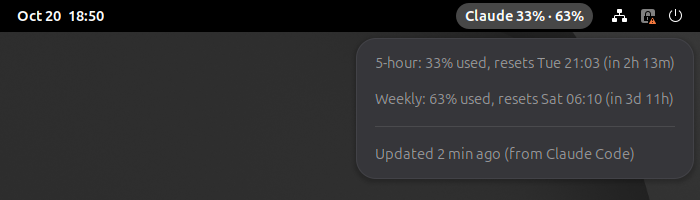
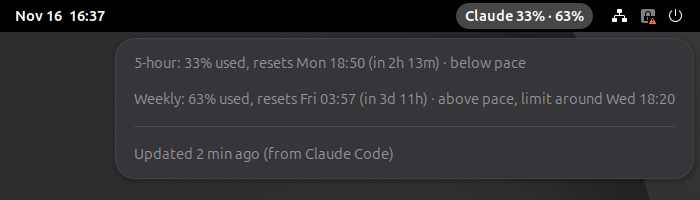
feat: limit colors, weekly breakdown and pace (#15)
- Color the label and menu rows yellow or red near a limit: at 80% and
  95% used, or when the usage report's severity is anything but normal.
  Bold the limit the report marks as active. Separate stylesheets for
  the light and dark shell styles, since the dark-style yellow can't be
  read on a light menu.
- "Weekly by surface" submenu from the report's seven_day_breakdown.
- Pace on each row: % used against % of the window gone, with when the
  limit would be hit at the current rate. Nothing in the first 10% of a
  window, where the rate is noise.

The usage report is now read once per refresh (readReport) and shared
by the Fable, resets, severity and breakdown rows.

Closes #5, closes #6, closes #12

diff --git a/claude-usage@bardswork/extension.js b/claude-usage@bardswork/extension.js
@@ -8,12 +8,28 @@ import * as PopupMenu from 'resource:///org/gnome/shell/ui/popupMenu.js';
 import {Extension} from 'resource:///org/gnome/shell/extensions/extension.js';
 
 import {
-    DEFAULT_FILE, USAGE_REPORT_FILE, readFable, readResets, readUsage, resetText, resetsText, windowText,
+    DEFAULT_FILE, USAGE_REPORT_FILE, WINDOW_SECONDS, breakdown, fableWindow, limitLevel, limitStates, paceText,
+    readReport, readUsage, resetGrants, resetText, resetsText, windowText, worstLevel,
 } from './usage.js';
 
 const REFRESH_SECONDS = 30;
 // Older than this, the numbers may be out of date (no Claude Code session running)
 const STALE_SECONDS = 15 * 60;
+const LEVEL_CLASSES = ['claude-usage-warning', 'claude-usage-critical'];
+
+/** Colors an actor for a level from limitLevel(), and bolds it when it's the active limit. */
+function setLevel(actor, level, active = false) {
+    for (const c of LEVEL_CLASSES) actor.remove_style_class_name(c);
+    if (level !== 'normal') actor.add_style_class_name(`claude-usage-${level}`);
+    if (active) actor.add_style_class_name('claude-usage-active');
+    else actor.remove_style_class_name('claude-usage-active');
+}
+
+/** A menu row's text: the percentage, the reset time and, when there is one, the pace. */
+function rowText(name, win, length, now) {
+    const pace = paceText(win, length, now);
+    return `${name}: ${windowText(win, now)} used, resets ${resetText(win, now)}${pace ? ` · ${pace}` : ''}`;
+}
 
 export default class ClaudeUsageExtension extends Extension {
     enable() {
@@ -23,6 +39,9 @@ export default class ClaudeUsageExtension extends Extension {
 
         this._fiveItem = new PopupMenu.PopupMenuItem('', {reactive: false});
         this._weekItem = new PopupMenu.PopupMenuItem('', {reactive: false});
+        // Only shown when the saved usage report has this week's split by surface
+        this._breakdownItem = new PopupMenu.PopupSubMenuMenuItem('Weekly by surface');
+        this._breakdownItem.visible = false;
         // Only shown when the status line hook has saved a usage report with a Fable window
         this._fableItem = new PopupMenu.PopupMenuItem('', {reactive: false});
         this._fableItem.visible = false;
@@ -32,6 +51,7 @@ export default class ClaudeUsageExtension extends Extension {
         this._ageItem = new PopupMenu.PopupMenuItem('', {reactive: false});
         this._button.menu.addMenuItem(this._fiveItem);
         this._button.menu.addMenuItem(this._weekItem);
+        this._button.menu.addMenuItem(this._breakdownItem);
         this._button.menu.addMenuItem(this._fableItem);
         this._button.menu.addMenuItem(this._resetsItem);
         this._button.menu.addMenuItem(new PopupMenu.PopupSeparatorMenuItem());
@@ -59,6 +79,8 @@ export default class ClaudeUsageExtension extends Extension {
             this._label.text = 'Claude –';
             this._fiveItem.label.text = '';
             this._weekItem.label.text = '';
+            setLevel(this._label, 'normal');
+            this._breakdownItem.visible = false;
             this._fableItem.visible = false;
             this._resetsItem.visible = false;
             this._ageItem.label.text = 'No data yet: start Claude Code';
@@ -68,15 +90,33 @@ export default class ClaudeUsageExtension extends Extension {
         const {five_hour: five, seven_day: week} = usage.limits;
         const age = now - usage.updated;
 
+        const report = readReport(USAGE_REPORT_FILE);
+        const states = limitStates(report);
+        const fable = fableWindow(report);
+        const fiveLevel = limitLevel(five, states.five_hour?.severity, now);
+        const weekLevel = limitLevel(week, states.seven_day?.severity, now);
+
         this._label.text = `Claude ${windowText(five, now)} · ${windowText(week, now)}`;
         this._label.opacity = age > STALE_SECONDS ? 140 : 255;
+        setLevel(this._label, worstLevel(fiveLevel, weekLevel));
 
-        this._fiveItem.label.text = `5-hour: ${windowText(five, now)} used, resets ${resetText(five, now)}`;
-        this._weekItem.label.text = `Weekly: ${windowText(week, now)} used, resets ${resetText(week, now)}`;
-        const fable = readFable(USAGE_REPORT_FILE);
+        this._fiveItem.label.text = rowText('5-hour', five, WINDOW_SECONDS.five_hour, now);
+        setLevel(this._fiveItem.label, fiveLevel, states.five_hour?.active);
+        this._weekItem.label.text = rowText('Weekly', week, WINDOW_SECONDS.seven_day, now);
+        setLevel(this._weekItem.label, weekLevel, states.seven_day?.active);
+
+        const surfaces = breakdown(report);
+        this._breakdownItem.visible = surfaces.length > 0;
+        this._breakdownItem.menu.removeAll();
+        for (const {name, percent} of surfaces)
+            this._breakdownItem.menu.addMenuItem(new PopupMenu.PopupMenuItem(`${name}: ${Math.round(percent)}%`, {reactive: false}));
+
         this._fableItem.visible = fable !== null;
-        if (fable) this._fableItem.label.text = `Fable weekly: ${windowText(fable, now)} used, resets ${resetText(fable, now)}`;
-        const resets = readResets(USAGE_REPORT_FILE, now);
+        if (fable) {
+            this._fableItem.label.text = rowText('Fable weekly', fable, WINDOW_SECONDS.seven_day, now);
+            setLevel(this._fableItem.label, limitLevel(fable, states.fable?.severity, now), states.fable?.active);
+        }
+        const resets = resetGrants(report, now);
         this._resetsItem.visible = resets.length > 0;
         if (resets.length) this._resetsItem.label.text = `Limit resets: ${resetsText(resets)}`;
 

diff --git a/claude-usage@bardswork/usage.js b/claude-usage@bardswork/usage.js
@@ -32,14 +32,19 @@ export function fableWindow(report) {
     return {used_percentage: row.percent, resets_at: resets ? resets.to_unix() : null};
 }
 
-/** Reads the Fable weekly window from the saved usage report. Null if missing or unreadable. */
-export function readFable(path) {
+/** Reads the saved usage report. Null if the file is missing or half written. */
+export function readReport(path) {
     try {
         const [, bytes] = Gio.File.new_for_path(path).load_contents(null);
-        return fableWindow(JSON.parse(new TextDecoder().decode(bytes)));
+        return JSON.parse(new TextDecoder().decode(bytes));
     } catch {
         return null;
     }
+}
+
+/** Reads the Fable weekly window from the saved usage report. Null if missing or unreadable. */
+export function readFable(path) {
+    return fableWindow(readReport(path));
 }
 
 /** A usage window ("five_hour" or "seven_day") as a short percentage. */
@@ -83,12 +88,7 @@ export function resetGrants(report, now) {
 
 /** Reads the limit resets left from the saved usage report. Empty if missing or unreadable. */
 export function readResets(path, now) {
-    try {
-        const [, bytes] = Gio.File.new_for_path(path).load_contents(null);
-        return resetGrants(JSON.parse(new TextDecoder().decode(bytes)), now);
-    } catch {
-        return [];
-    }
+    return resetGrants(readReport(path), now);
 }
 
 /** Limit resets as one line, for example "1 full reset, use by Thu Dec 10". */
@@ -98,4 +98,77 @@ export function resetsText(grants) {
         if (g.ends_at === null) return what;
         return `${what}, use by ${GLib.DateTime.new_from_unix_local(g.ends_at).format('%a %b %-d')}`;
     }).join('; ');
+}
+
+/** Window lengths in seconds, for the pace. */
+export const WINDOW_SECONDS = {five_hour: 5 * 3600, seven_day: 7 * 86400};
+
+const LEVELS = ['normal', 'warning', 'critical'];
+// Used percentages at which a window counts as a warning or critical without a server severity
+const WARNING_PERCENT = 80;
+const CRITICAL_PERCENT = 95;
+
+/**
+ * The server's severity and whether it's the limit that applies now, for the session, weekly
+ * and Fable rows of a saved usage report: {five_hour, seven_day, fable}, each
+ * {severity, active} or missing.
+ */
+export function limitStates(report) {
+    const states = {};
+    for (const l of Array.isArray(report?.limits) ? report.limits : []) {
+        let key = null;
+        if (l?.kind === 'session') key = 'five_hour';
+        else if (l?.kind === 'weekly_all') key = 'seven_day';
+        else if (l?.kind === 'weekly_scoped' && /^fable\b/i.test(String(l.scope?.model?.display_name ?? ''))) key = 'fable';
+        if (key && !states[key])
+            states[key] = {severity: typeof l.severity === 'string' ? l.severity : null, active: l.is_active === true};
+    }
+    return states;
+}
+
+/**
+ * How close a window is to its limit: 'normal', 'warning' or 'critical'. The worse of the
+ * server's severity (anything but 'normal' counts as a warning) and the used percentage.
+ */
+export function limitLevel(win, severity, now) {
+    if (!win || (win.resets_at && win.resets_at < now)) return 'normal';
+    const pct = win.used_percentage;
+    let level = pct >= CRITICAL_PERCENT ? 2 : pct >= WARNING_PERCENT ? 1 : 0;
+    if (typeof severity === 'string' && severity !== 'normal') level = Math.max(level, 1);
+    return LEVELS[level];
+}
+
+/** The worse of several levels from limitLevel(). */
+export function worstLevel(...levels) {
+    return LEVELS[Math.max(0, ...levels.map(l => LEVELS.indexOf(l)))];
+}
+
+/** Where this week's usage went, by surface: [{name, percent}], largest first. Empty if none. */
+export function breakdown(report) {
+    const rows = report?.seven_day_breakdown?.rows;
+    if (!Array.isArray(rows)) return [];
+    return rows
+        .filter(r => typeof r?.percent === 'number' && typeof (r.display_name ?? r.key) === 'string')
+        .map(r => ({name: r.display_name ?? r.key, percent: r.percent}))
+        .sort((a, b) => b.percent - a.percent);
+}
+
+/**
+ * Whether a window is being used faster than it refills: '' when it's too early in the window
+ * to tell or the window is unknown, else 'below pace', 'on pace', 'at limit', or 'above pace'
+ * with the time it would hit the limit at this rate.
+ */
+export function paceText(win, length, now) {
+    if (!win?.resets_at || !length || win.resets_at < now) return '';
+    const elapsed = length - (win.resets_at - now);
+    // Too early in the window, the ratio is noise
+    if (elapsed < length * 0.1) return '';
+    const used = win.used_percentage;
+    if (used >= 100) return 'at limit';
+    const ratio = used / (elapsed / length * 100);
+    if (ratio < 0.9) return 'below pace';
+    if (ratio <= 1.1) return 'on pace';
+    // Above pace always hits the limit before the reset: (100 - used) / rate < time left
+    const hitAt = Math.round(now + (100 - used) / (used / elapsed));
+    return `above pace, limit around ${GLib.DateTime.new_from_unix_local(hitAt).format('%a %H:%M')}`;
 }

diff --git a/tests/usage.test.js b/tests/usage.test.js
@@ -3,7 +3,8 @@ import GLib from 'gi://GLib';
 import System from 'system';
 
 import {
-    fableWindow, readFable, readResets, readUsage, resetGrants, resetText, resetsText, windowText,
+    WINDOW_SECONDS, breakdown, fableWindow, limitLevel, limitStates, paceText, readFable, readReport, readResets,
+    readUsage, resetGrants, resetText, resetsText, windowText, worstLevel,
 } from '../claude-usage@bardswork/usage.js';
 
 let failed = 0;
@@ -138,7 +139,83 @@ test('readResets: half-written file gives none', () => {
     equal(readResets(path, NOW), []);
 });
 
-GLib.unlink(path);
+test('readReport: missing or half-written file returns null', () => {
+    GLib.unlink(path);
+    equal(readReport(path), null);
+    GLib.file_set_contents(path, '{"limits": [');
+    equal(readReport(path), null);
+});
+
+const states = {limits: [
+    {kind: 'session', percent: 81, severity: 'normal', is_active: false},
+    {kind: 'weekly_all', percent: 12, severity: 'warning', is_active: true},
+    {kind: 'weekly_scoped', percent: 15, severity: 'normal', scope: {model: {display_name: 'Sonnet'}}},
+    {kind: 'weekly_scoped', percent: 15, scope: {model: {display_name: 'Fable'}}},
+]};
+test('limitStates: severity and active per window', () => equal(limitStates(states), {
+    five_hour: {severity: 'normal', active: false},
+    seven_day: {severity: 'warning', active: true},
+    fable: {severity: null, active: false},
+}));
+test('limitStates: missing or odd report gives none', () => {
+    equal(limitStates(null), {});
+    equal(limitStates({limits: 'x'}), {});
+    equal(limitStates({limits: [null, {kind: 'other'}]}), {});
+});
+
+const at = pct => ({used_percentage: pct, resets_at: NOW + 3600});
+test('limitLevel: from the used percentage', () => {
+    equal(limitLevel(at(50), null, NOW), 'normal');
+    equal(limitLevel(at(80), null, NOW), 'warning');
+    equal(limitLevel(at(95), 'normal', NOW), 'critical');
+});
+test('limitLevel: any severity but normal is at least a warning', () => {
+    equal(limitLevel(at(10), 'warning', NOW), 'warning');
+    equal(limitLevel(at(10), 'something_new', NOW), 'warning');
+    equal(limitLevel(at(97), 'warning', NOW), 'critical');
+});
+test('limitLevel: past the reset or no window is normal', () => {
+    equal(limitLevel({used_percentage: 99, resets_at: NOW - 1}, 'critical', NOW), 'normal');
+    equal(limitLevel(undefined, 'warning', NOW), 'normal');
+});
+test('worstLevel: picks the worse', () => {
+    equal(worstLevel('normal', 'warning'), 'warning');
+    equal(worstLevel('critical', 'warning'), 'critical');
+    equal(worstLevel(), 'normal');
+});
+
+test('breakdown: rows by share, largest first', () => equal(breakdown({seven_day_breakdown: {rows: [
+    {key: 'chat', display_name: 'Chats', percent: 0},
+    {key: 'claude_code', display_name: 'Claude Code', percent: 95},
+    {key: 'cowork', display_name: 'Cowork', percent: 5},
+]}}), [{name: 'Claude Code', percent: 95}, {name: 'Cowork', percent: 5}, {name: 'Chats', percent: 0}]));
+test('breakdown: falls back to the key and skips odd rows', () => equal(breakdown({seven_day_breakdown: {rows: [
+    {key: 'new_surface', percent: 7}, null, {display_name: 'x'}, {key: 'y', percent: '3'},
+]}}), [{name: 'new_surface', percent: 7}]));
+test('breakdown: missing gives none', () => {
+    equal(breakdown(null), []);
+    equal(breakdown({seven_day_breakdown: null}), []);
+});
+
+// Halfway through a 5-hour window
+const half = pct => ({used_percentage: pct, resets_at: NOW + WINDOW_SECONDS.five_hour / 2});
+test('paceText: below, on and above pace', () => {
+    equal(paceText(half(20), WINDOW_SECONDS.five_hour, NOW), 'below pace');
+    equal(paceText(half(50), WINDOW_SECONDS.five_hour, NOW), 'on pace');
+    // 80% in 2.5h is 32%/h, so the last 20% takes 37.5 more minutes
+    equal(paceText(half(80), WINDOW_SECONDS.five_hour, NOW), 'above pace, limit around Tue 12:37');
+});
+test('paceText: at the limit', () => equal(paceText(half(100), WINDOW_SECONDS.five_hour, NOW), 'at limit'));
+test('paceText: nothing early in the window, after the reset or without a reset time', () => {
+    equal(paceText({used_percentage: 30, resets_at: NOW + 17000}, WINDOW_SECONDS.five_hour, NOW), '');
+    equal(paceText({used_percentage: 30, resets_at: NOW - 1}, WINDOW_SECONDS.five_hour, NOW), '');
+    equal(paceText({used_percentage: 30}, WINDOW_SECONDS.five_hour, NOW), '');
+    equal(paceText(undefined, WINDOW_SECONDS.five_hour, NOW), '');
+});
+test('paceText: weekly window', () => equal(
+    paceText({used_percentage: 13, resets_at: NOW + 5 * 86400}, WINDOW_SECONDS.seven_day, NOW), 'below pace'));
+
+if (GLib.file_test(path, GLib.FileTest.EXISTS)) GLib.unlink(path);
 GLib.rmdir(tmp);
 print(failed ? `\n${failed} failed` : '\nall passed');
 System.exit(failed ? 1 : 0);

diff --git a/claude-usage@bardswork/stylesheet-light.css b/claude-usage@bardswork/stylesheet-light.css
@@ -1,0 +1,13 @@
+/* Light shell style. Close to a limit: GNOME palette orange 5 and red 4, dark enough for light menus. */
+.claude-usage-warning {
+    color: #c64600;
+}
+
+.claude-usage-critical {
+    color: #c01c28;
+}
+
+/* The limit that applies right now, per the usage report */
+.claude-usage-active {
+    font-weight: bold;
+}

diff --git a/claude-usage@bardswork/stylesheet-dark.css b/claude-usage@bardswork/stylesheet-dark.css
@@ -1,0 +1,13 @@
+/* Dark shell style. Close to a limit: GNOME palette yellow 2 and red 1. */
+.claude-usage-warning {
+    color: #f8e45c;
+}
+
+.claude-usage-critical {
+    color: #f66151;
+}
+
+/* The limit that applies right now, per the usage report */
+.claude-usage-active {
+    font-weight: bold;
+}

diff --git a/README.md b/README.md
@@ -8,7 +8,13 @@ A GNOME Shell extension that shows your Claude Pro or Max plan usage in the top 
 
 ![The extension in the GNOME top bar with its menu open, showing 33% of the 5-hour window and 63% of the weekly limit used](docs/screenshot.png)
 
-The first number is your 5-hour session window. The second is your weekly limit. Click it to see when each one resets and how old the numbers are, plus your Fable weekly limit and any limit resets you have left to use, if you turn that on.
+The first number is your 5-hour session window. The second is your weekly limit. The label turns yellow at 80% and red at 95%. Click it to see when each one resets, whether you're using it faster than it refills, and how old the numbers are.
+
+If you turn on the [usage report fetch](#fable-weekly-limit-optional), the menu also has your Fable weekly limit, any limit resets you have left to use, and where your weekly usage went (Claude Code, chats, Cowork). The label then also turns yellow when the server marks a limit as anything other than normal, and the limit that applies right now is shown in bold.
+
+### Pace
+
+Each row says whether you're below, on, or above pace: your % used against the % of the window that has passed. Above pace, it also says when you'd hit the limit at that rate, for example `above pace, limit around Wed 18:20`. It shows nothing in the first 10% of a window, where the rate is too noisy to mean much.
 
 - No login, no API key, no network calls in the extension. It reads files that Claude Code's status line writes.
 - About 100 lines of JavaScript, with unit tests and a headless GNOME Shell test.

diff --git a/CHANGELOG.md b/CHANGELOG.md
@@ -2,6 +2,9 @@
 
 ## Unreleased
 
+- Label and menu rows turn yellow or red near a limit: at 80% and 95% used, or when the usage report marks a limit as anything other than normal. The limit that applies right now is shown in bold. Separate colors for light and dark shell styles ([#5](https://github.com/BardsWork/claude-usage-gnome/issues/5)).
+- "Weekly by surface" submenu with where this week's usage went (Claude Code, chats, Cowork), from the usage report ([#6](https://github.com/BardsWork/claude-usage-gnome/issues/6)).
+- Pace on each row: below, on or above pace, and when you'd hit the limit at the current rate ([#12](https://github.com/BardsWork/claude-usage-gnome/issues/12)).
 - Limit resets row in the menu, with how many resets of each kind you have left and when they run out. The status line snippet's optional fetch now asks for them and sends Claude Code's User-Agent, which the server needs before it lists them ([#3](https://github.com/BardsWork/claude-usage-gnome/issues/3)).
 - Fable weekly row in the menu, with its percentage and reset time. The status line snippet has an optional block that fetches claude.ai's usage report, which is the only place this window shows up ([#1](https://github.com/BardsWork/claude-usage-gnome/issues/1)).
 

diff --git a/docs/development.md b/docs/development.md
@@ -6,6 +6,7 @@
 |---|---|
 | `claude-usage@bardswork/extension.js` | The top-bar button and menu |
 | `claude-usage@bardswork/usage.js` | Reads the JSON file and formats the text. No GNOME Shell imports, so it can be unit tested with plain `gjs` |
+| `claude-usage@bardswork/stylesheet-dark.css`, `stylesheet-light.css` | Warning and critical colors. GNOME Shell loads the one that matches the shell style |
 | `claude-usage@bardswork/metadata.json` | Extension name, ID and supported GNOME versions |
 | `statusline-snippet.sh` | Lines to add to your Claude Code status line script |
 | `install.sh` | Links the extension into GNOME and enables it |
